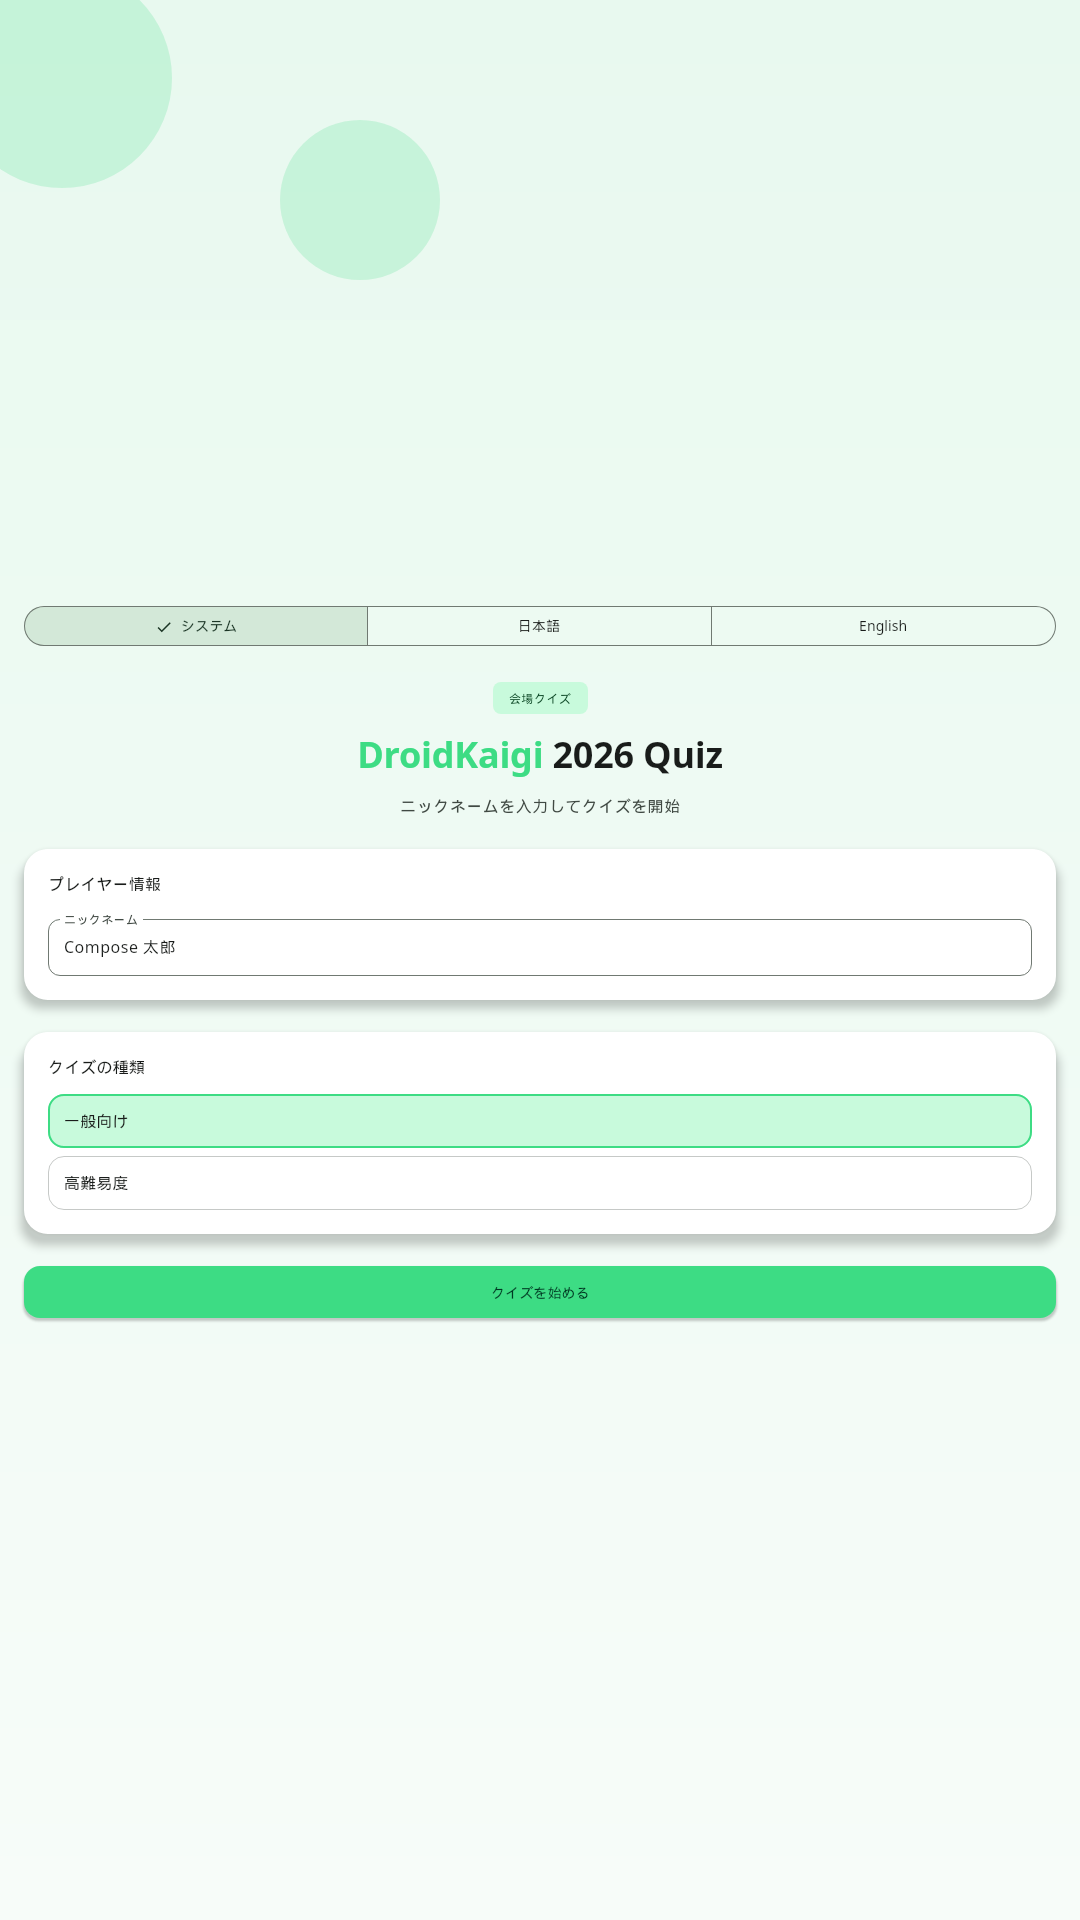
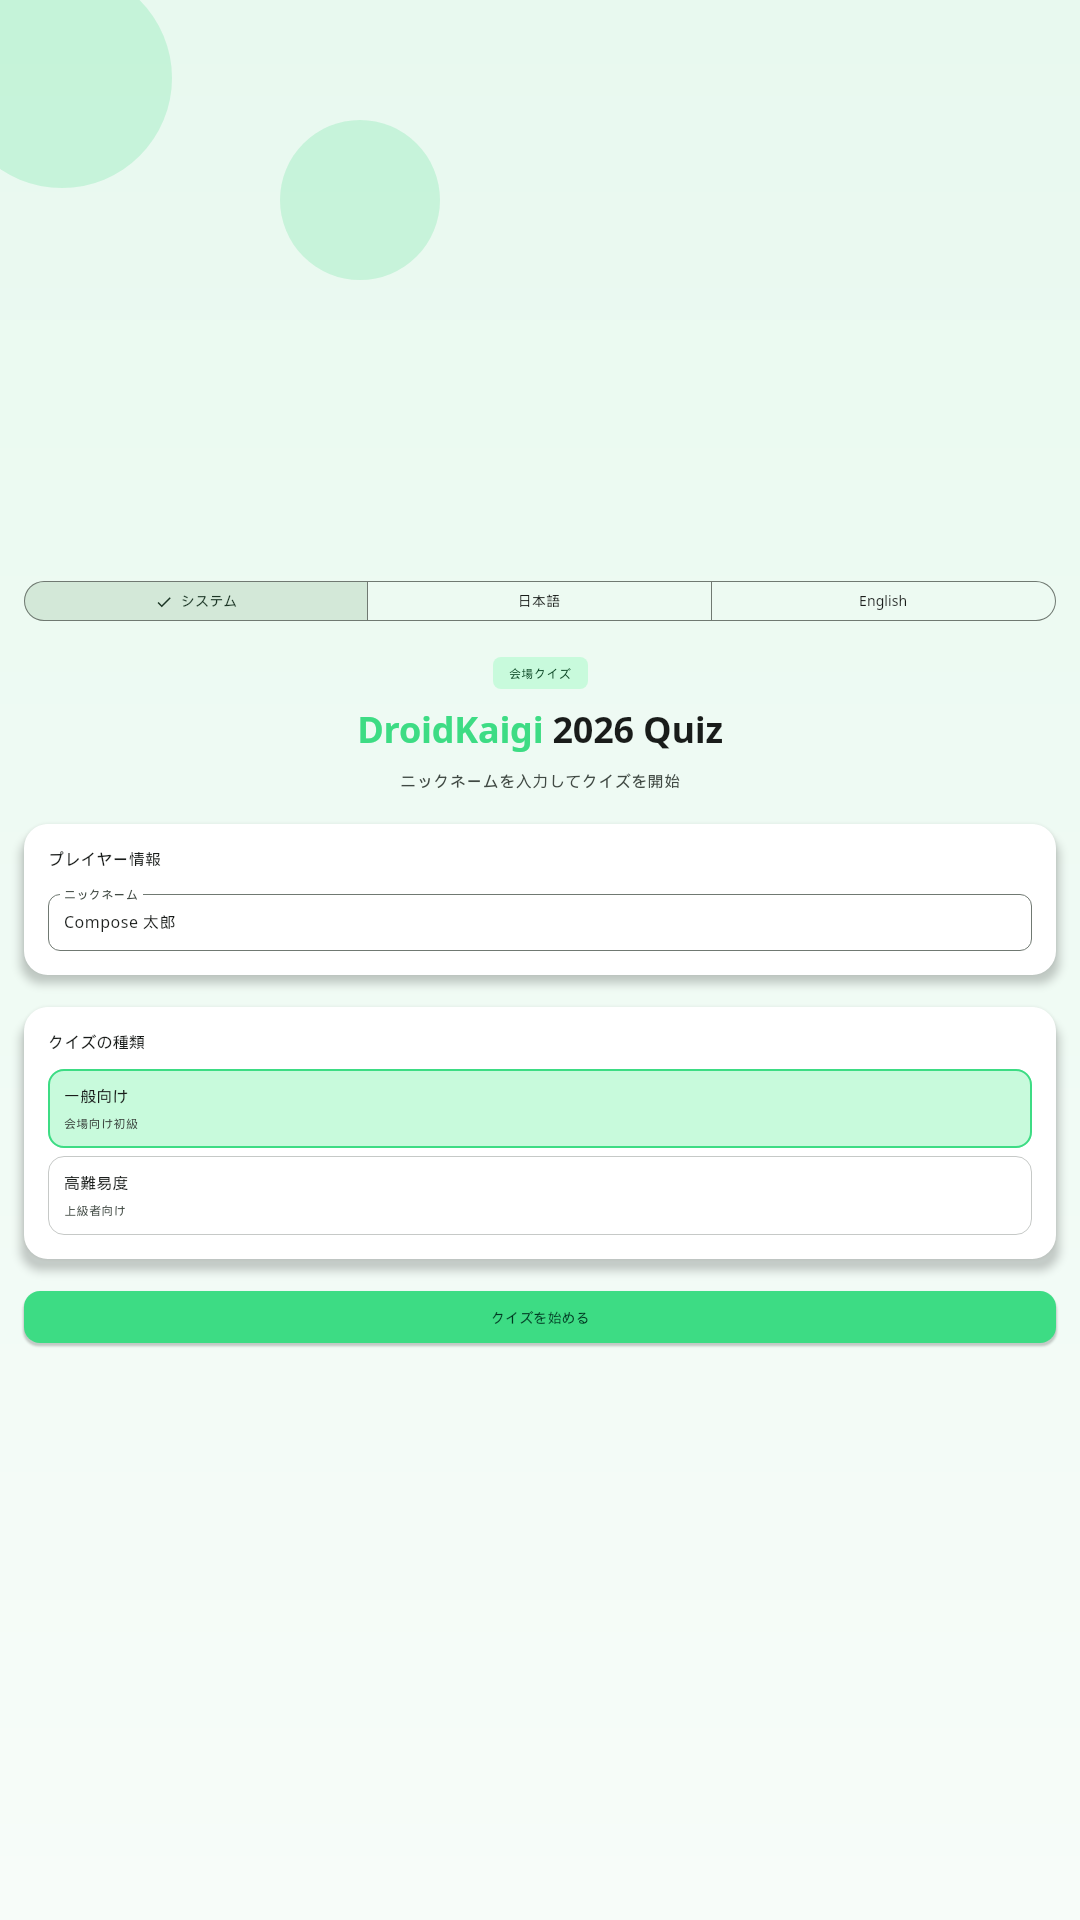
Capture public folder configuration states

diff --git a/feature/quiz/src/jvmTest/kotlin/jp/co/yumemi/quiz/droidkaigi/feature/quiz/home/HomeContentJvmUiTest.kt b/feature/quiz/src/jvmTest/kotlin/jp/co/yumemi/quiz/droidkaigi/feature/quiz/home/HomeContentJvmUiTest.kt
@@ -3,6 +3,7 @@ package jp.co.yumemi.quiz.droidkaigi.feature.quiz.home
 import androidx.compose.runtime.CompositionLocalProvider
 import androidx.compose.runtime.key
 import androidx.compose.ui.test.ExperimentalTestApi
+import androidx.compose.ui.test.assertDoesNotExist
 import androidx.compose.ui.test.assertIsDisplayed
 import androidx.compose.ui.test.onNodeWithText
 import androidx.compose.ui.test.runComposeUiTest
@@ -27,8 +28,19 @@ class HomeContentJvmUiTest {
                             isLoading = false,
                             errorMessage = null,
                             publishedFolders = listOf(
-                                QuizFolder(id = "easy", name = "一般向け", description = "会場向け初級"),
-                                QuizFolder(id = "hard", name = "高難易度", description = "上級者向け"),
+                                QuizFolder(
+                                    id = "easy",
+                                    name = "Day 1（運営用）",
+                                    description = "運営メモ",
+                                    publicName = "一般向け",
+                                    publicDescription = "会場向け初級",
+                                ),
+                                QuizFolder(
+                                    id = "hard",
+                                    name = "高難易度",
+                                    description = "上級者向け",
+                                    useInternalAsPublic = true,
+                                ),
                             ),
                             selectedFolderId = "easy",
                             onNicknameChange = {},
@@ -42,6 +54,9 @@ class HomeContentJvmUiTest {
         onNodeWithText("DroidKaigi 2026 Quiz").assertIsDisplayed()
         onNodeWithText("クイズを始める").assertIsDisplayed()
         onNodeWithText("一般向け").assertIsDisplayed()
+        onNodeWithText("会場向け初級").assertIsDisplayed()
+        onNodeWithText("Day 1（運営用）").assertDoesNotExist()
+        onNodeWithText("運営メモ").assertDoesNotExist()
     }
 
     @OptIn(ExperimentalTestApi::class)

diff --git a/feature/staff/src/commonMain/kotlin/jp/co/yumemi/quiz/droidkaigi/feature/staff/folders/StaffFolderSidebar.kt b/feature/staff/src/commonMain/kotlin/jp/co/yumemi/quiz/droidkaigi/feature/staff/folders/StaffFolderSidebar.kt
@@ -337,12 +337,12 @@ private fun StaffFolderCreateDialog(
                 QuizTextField(
                     value = name,
                     onValueChange = onNameChange,
-                    label = "名前（日・難易度など）",
+                    label = "管理用の名前（日・難易度など）",
                 )
                 QuizTextField(
                     value = description,
                     onValueChange = onDescriptionChange,
-                    label = "説明",
+                    label = "管理用の説明",
                 )
                 if (confirmLoading) {
                     Row(
@@ -497,12 +497,12 @@ private fun StaffFolderEditDialog(
                 QuizTextField(
                     value = name,
                     onValueChange = { name = it },
-                    label = "名前（日・難易度など）",
+                    label = "管理用の名前（日・難易度など）",
                 )
                 QuizTextField(
                     value = description,
                     onValueChange = { description = it },
-                    label = "説明",
+                    label = "管理用の説明",
                 )
                 if (confirmLoading) {
                     Row(
